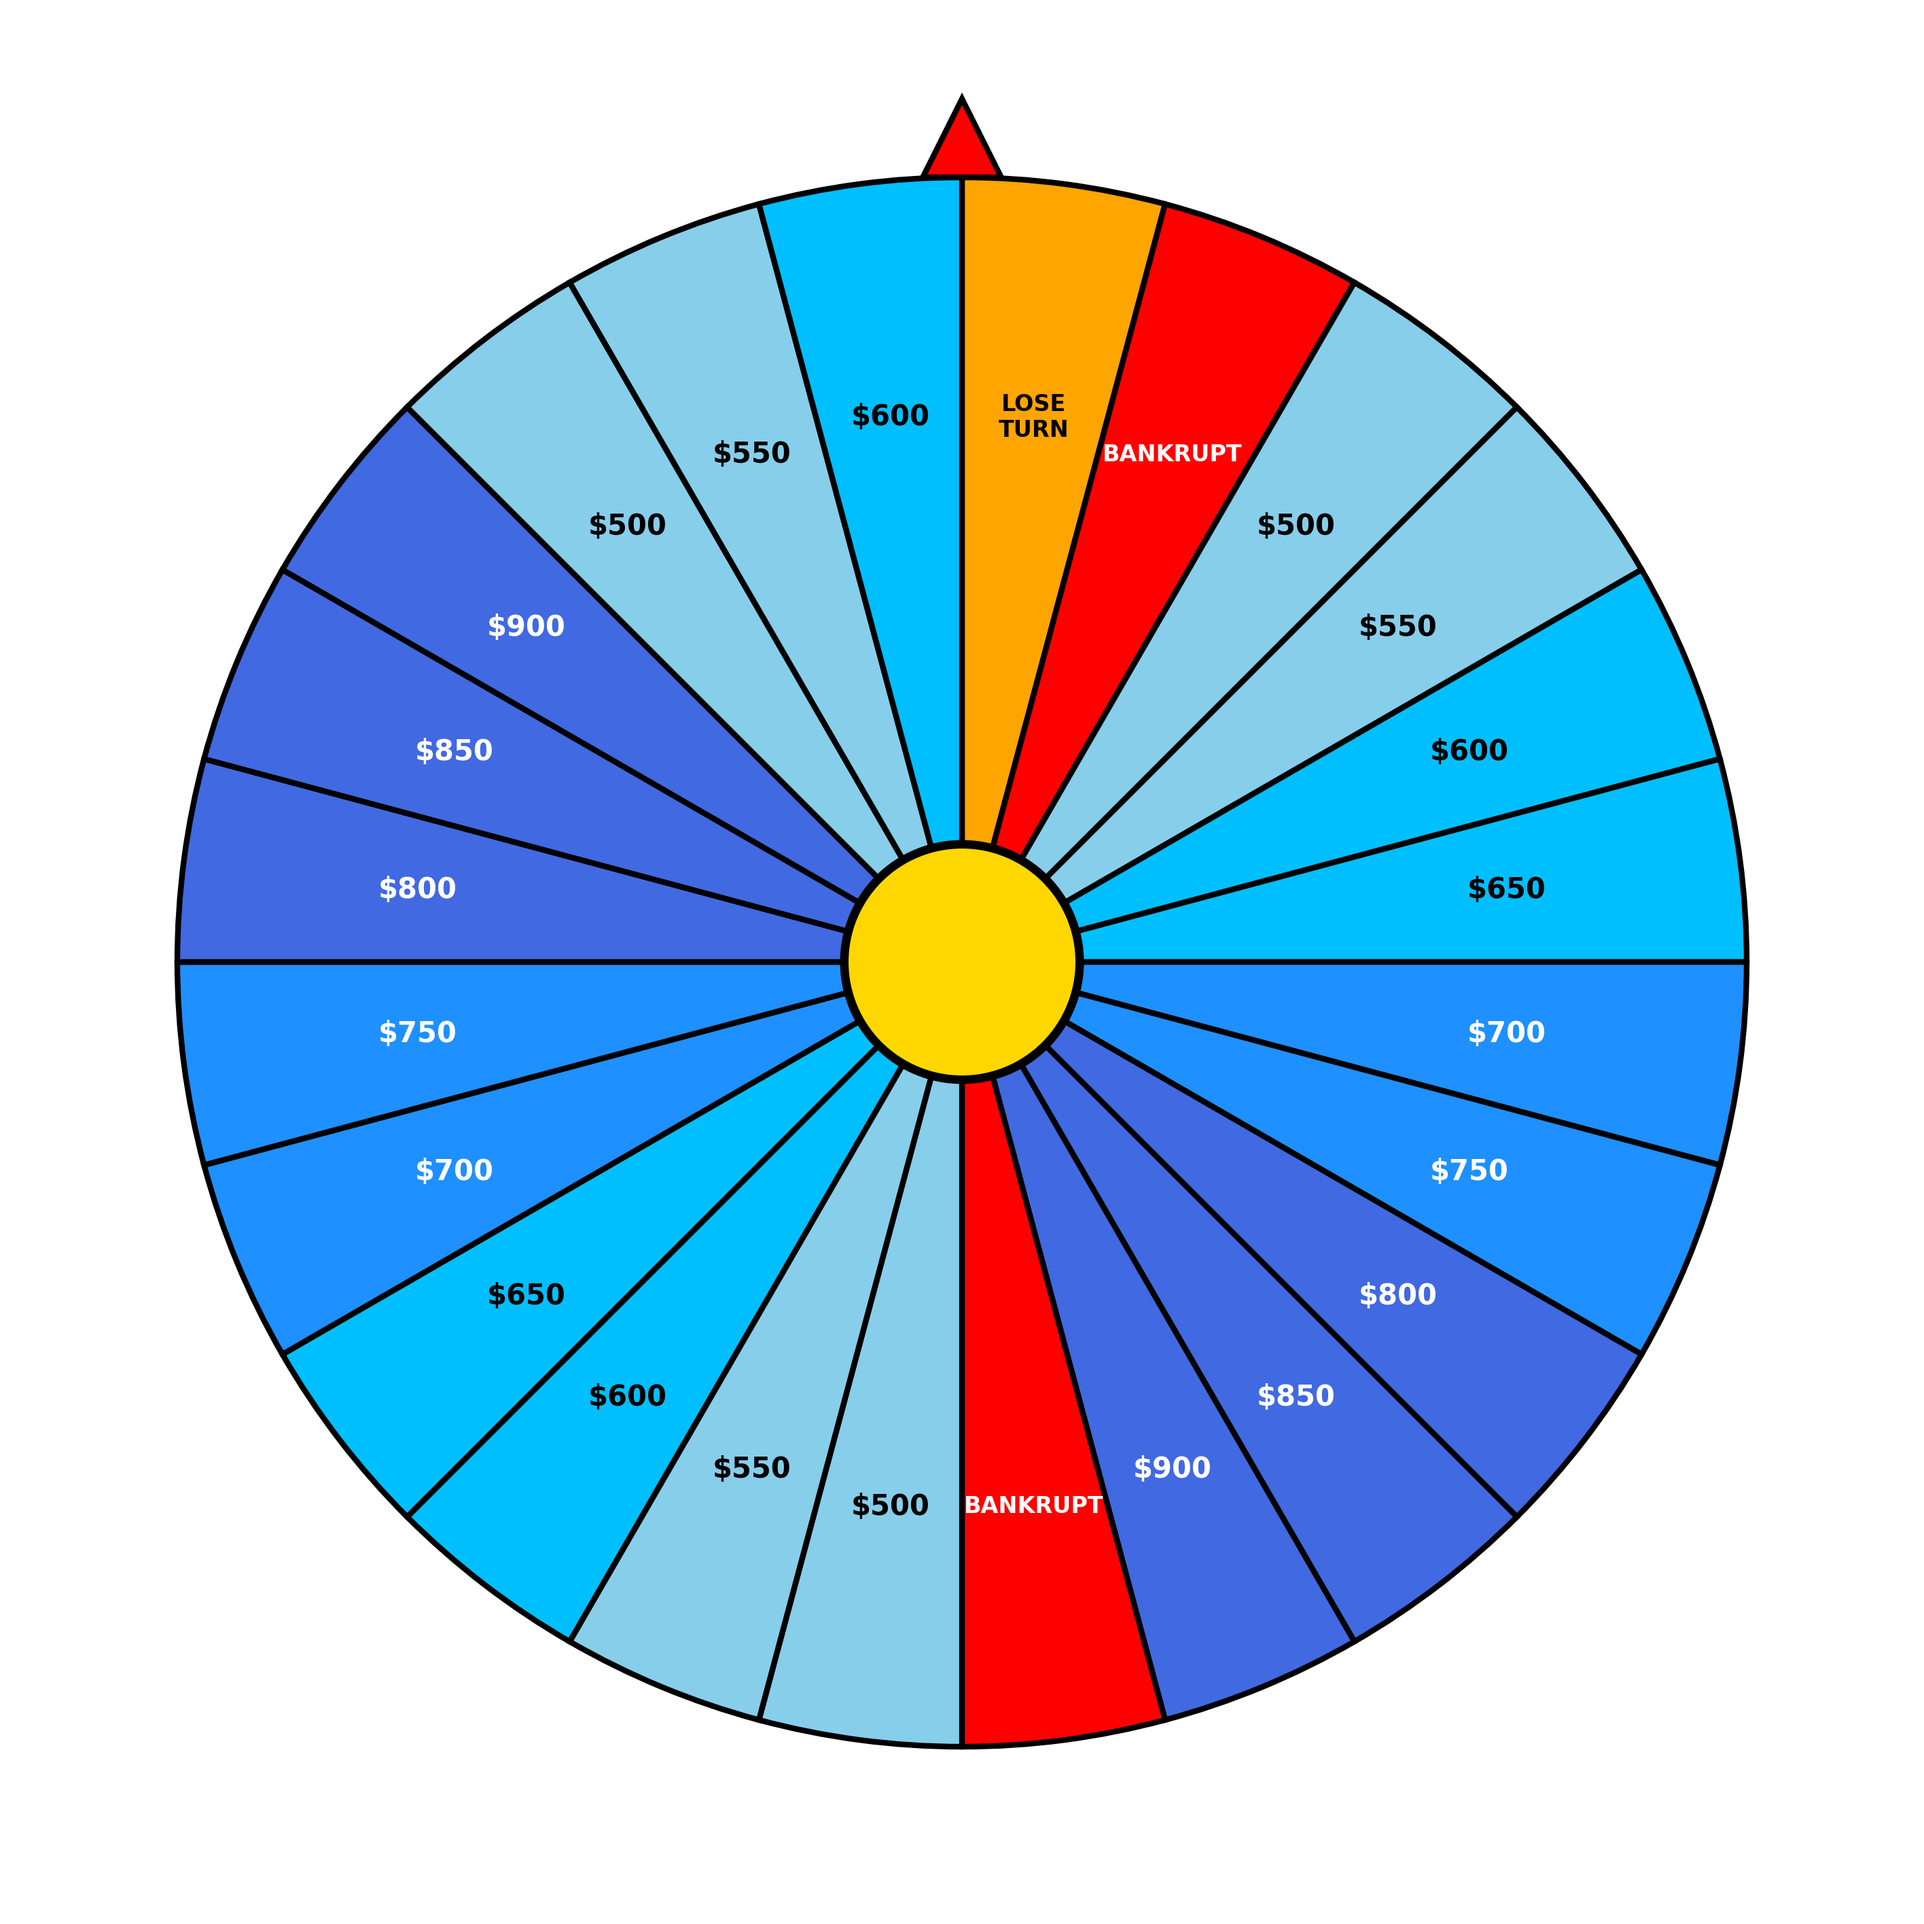
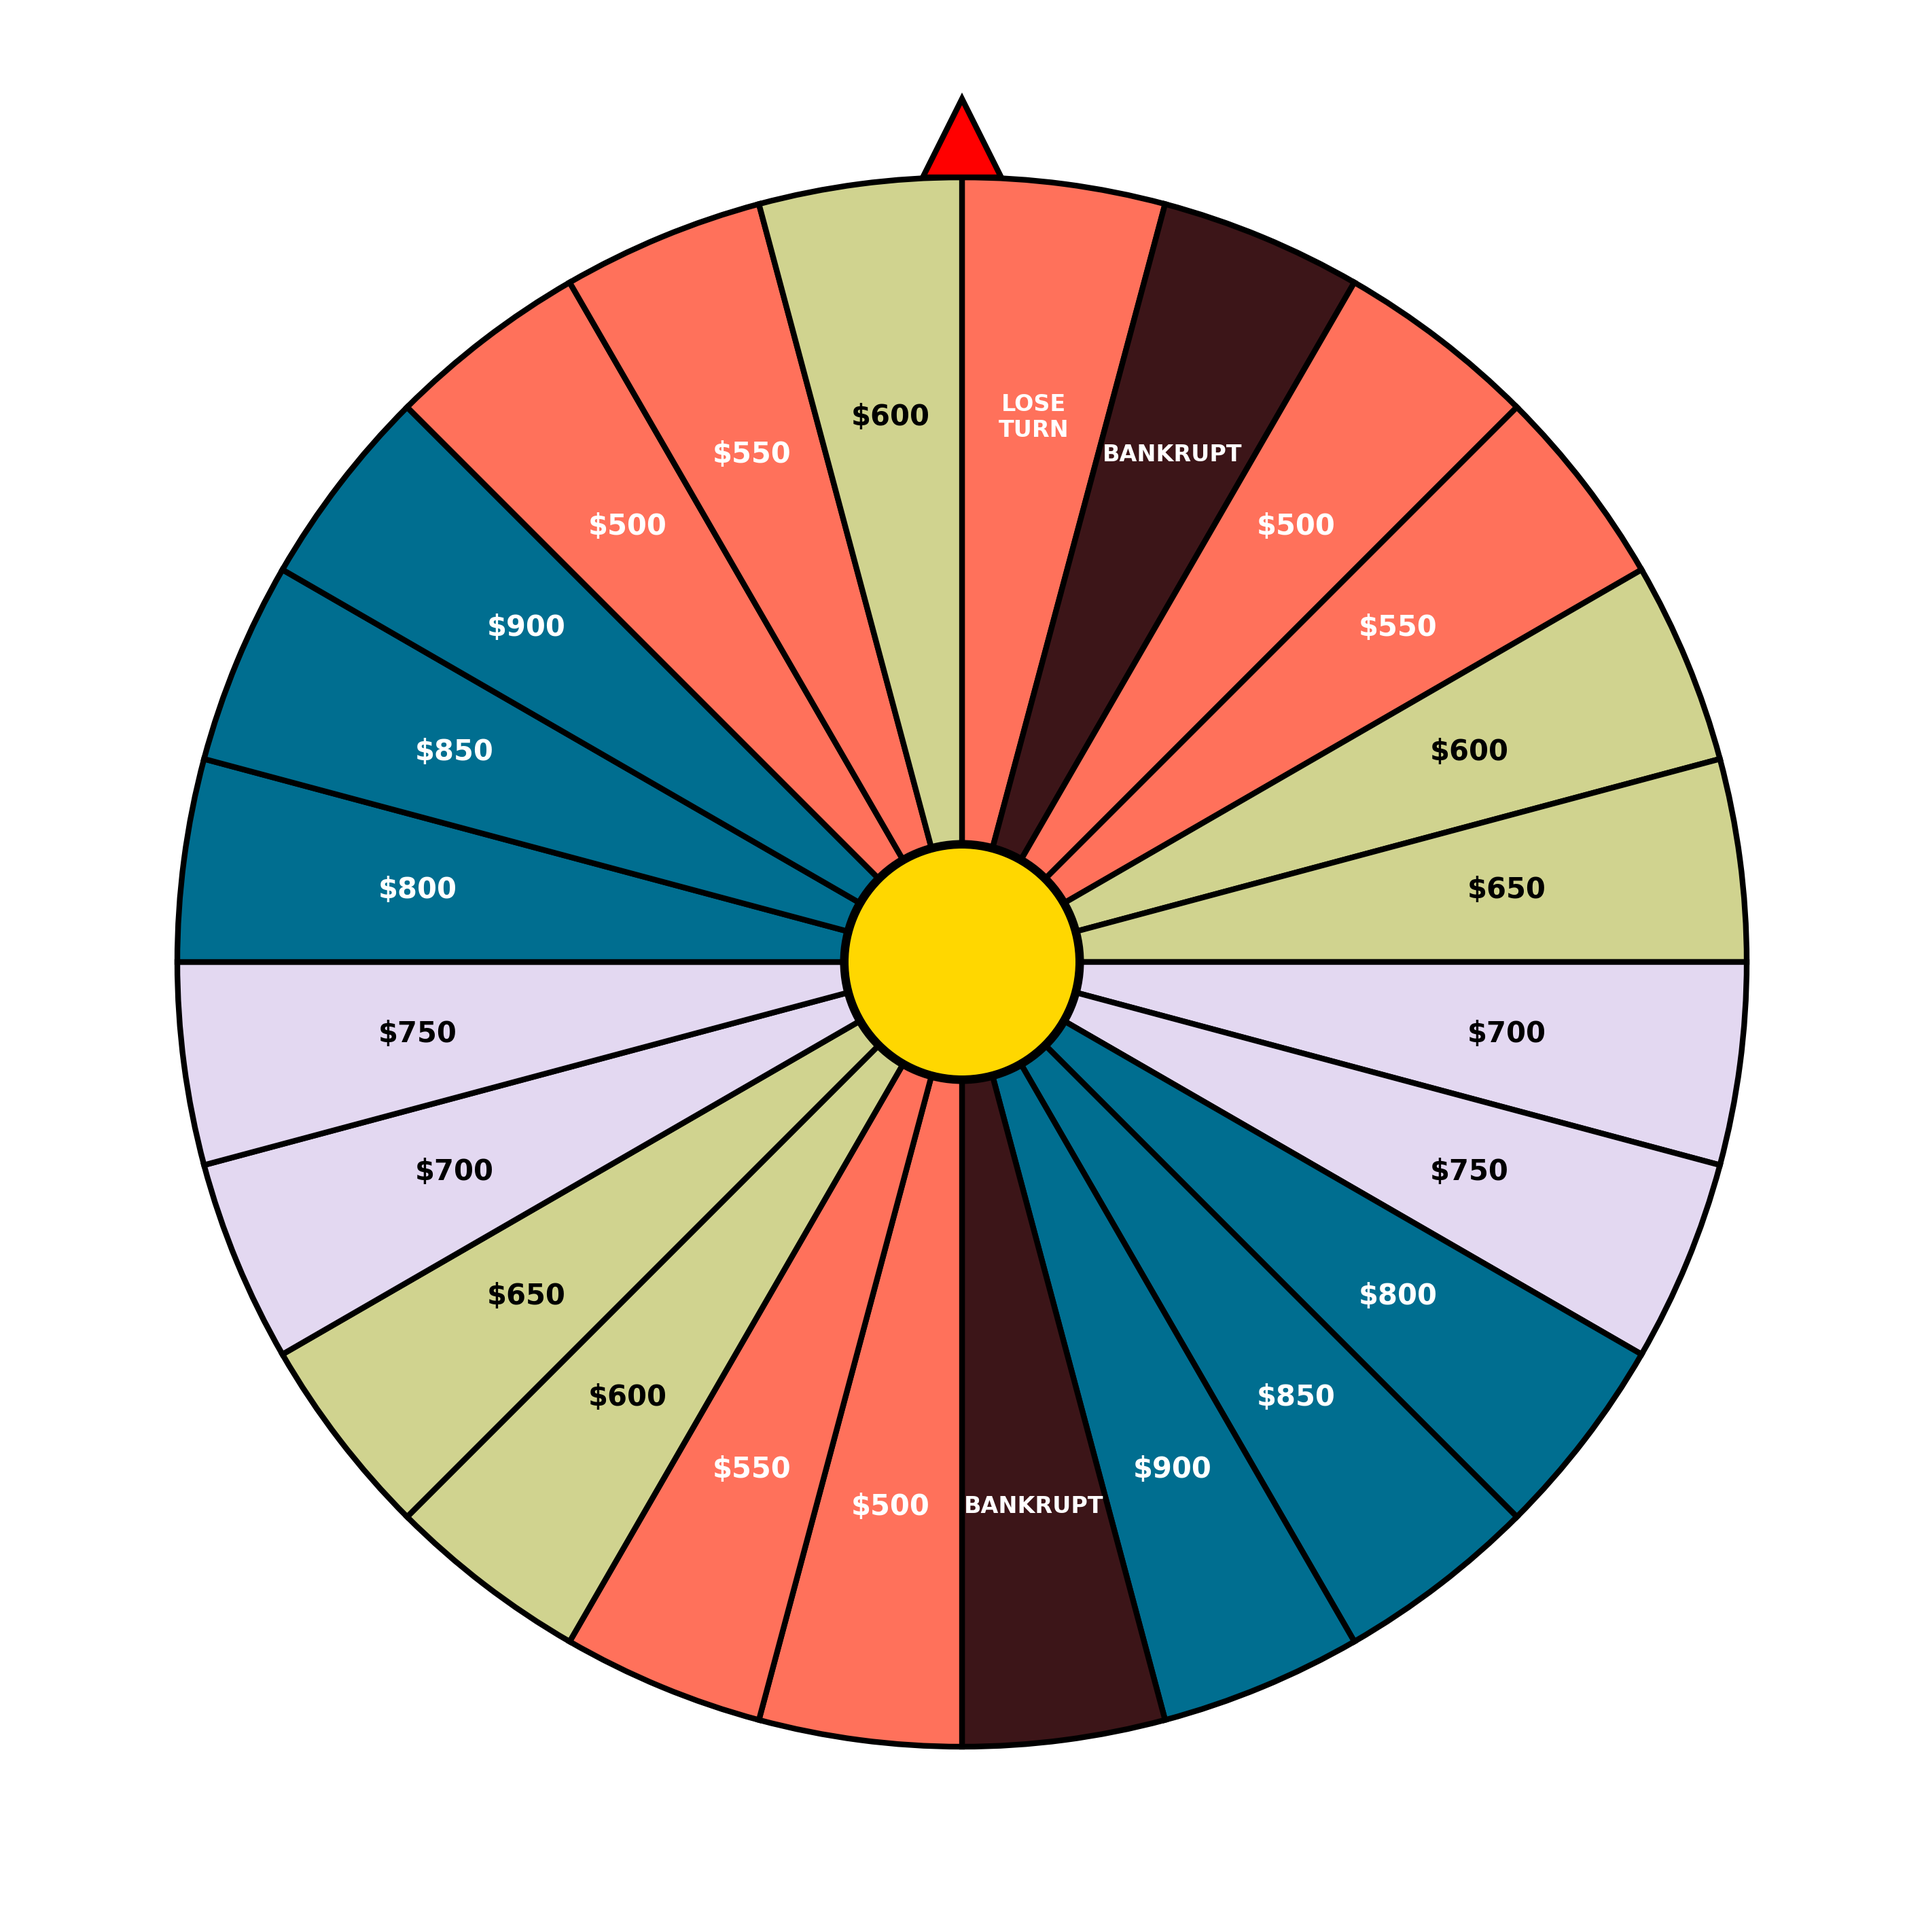
Update color palette throughout the game
- Applied new color palette: #E3D8F1, #FF715B, #D0D38F, #006E90, #3C1518
- Updated wheel image with new colors and proper contrast
- Updated all button styles to use new palette
- Updated background gradients and container styles
- Maintained good contrast for readability
- Ensured wheel values match exactly what's displayed

diff --git a/styles-new.css b/styles-new.css
@@ -7,8 +7,7 @@
 
 body {
     font-family: 'Arial', sans-serif;
-    background: url('images/background.jpg') center center fixed;
-    background-size: cover;
+    background: linear-gradient(135deg, #3C1518 0%, #006E90 50%, #E3D8F1 100%);
     min-height: 100vh;
     color: #fff;
     overflow-x: hidden;
@@ -22,7 +21,7 @@ body::before {
     left: 0;
     width: 100%;
     height: 100%;
-    background: rgba(0, 0, 0, 0.3);
+    background: linear-gradient(135deg, rgba(60, 21, 24, 0.1) 0%, rgba(0, 110, 144, 0.1) 50%, rgba(227, 216, 241, 0.1) 100%);
     z-index: -1;
     pointer-events: none;
 }
@@ -41,8 +40,8 @@ body::before {
 header {
     text-align: center;
     padding: 20px;
-    background: rgba(0, 0, 0, 0.8);
-    border-bottom: 3px solid #ffd700;
+    background: rgba(60, 21, 24, 0.9);
+    border-bottom: 3px solid #D0D38F;
 }
 
 header h1 {
@@ -66,15 +65,15 @@ header h1 {
     max-width: 800px;
     margin: 50px auto;
     padding: 40px;
-    background: rgba(0, 0, 0, 0.8);
+    background: rgba(0, 110, 144, 0.2);
     border-radius: 15px;
-    border: 3px solid #ffd700;
+    border: 3px solid #E3D8F1;
     text-align: center;
 }
 
 .setup-container h2 {
     font-size: 2.5rem;
-    color: #ffd700;
+    color: #D0D38F;
     margin-bottom: 30px;
     text-shadow: 2px 2px 4px rgba(0, 0, 0, 0.8);
 }
@@ -95,9 +94,9 @@ header h1 {
 }
 
 .round-btn {
-    background: linear-gradient(145deg, #2c3e50, #34495e);
-    color: #ecf0f1;
-    border: 2px solid #3498db;
+    background: linear-gradient(145deg, #006E90, #3C1518);
+    color: #ffffff;
+    border: 2px solid #E3D8F1;
     padding: 12px 24px;
     border-radius: 8px;
     font-size: 16px;
@@ -108,16 +107,17 @@ header h1 {
 }
 
 .round-btn:hover {
-    background: linear-gradient(145deg, #34495e, #2c3e50);
-    border-color: #5dade2;
+    background: linear-gradient(145deg, #3C1518, #006E90);
+    border-color: #D0D38F;
     transform: translateY(-2px);
-    box-shadow: 0 4px 8px rgba(52, 152, 219, 0.3);
+    box-shadow: 0 4px 8px rgba(227, 216, 241, 0.3);
 }
 
 .round-btn.active {
-    background: linear-gradient(145deg, #3498db, #2980b9);
-    border-color: #ecf0f1;
-    box-shadow: 0 4px 12px rgba(52, 152, 219, 0.5);
+    background: linear-gradient(145deg, #E3D8F1, #D0D38F);
+    color: #3C1518;
+    border-color: #006E90;
+    box-shadow: 0 4px 12px rgba(208, 211, 143, 0.5);
 }
 
 .player-selection {
@@ -150,8 +150,8 @@ header h1 {
 }
 
 .counter-btn {
-    background: #ffd700;
-    color: #000;
+    background: #D0D38F;
+    color: #3C1518;
     border: none;
     width: 40px;
     height: 40px;
@@ -163,7 +163,7 @@ header h1 {
 }
 
 .counter-btn:hover {
-    background: #ffed4e;
+    background: #E3D8F1;
     transform: scale(1.1);
 }
 
@@ -209,8 +209,8 @@ header h1 {
 }
 
 .continue-btn, .start-btn {
-    background: linear-gradient(45deg, #ffd700, #ffed4e);
-    color: #000;
+    background: linear-gradient(45deg, #D0D38F, #E3D8F1);
+    color: #3C1518;
     border: none;
     padding: 15px 40px;
     font-size: 1.5rem;
@@ -223,7 +223,7 @@ header h1 {
 
 .continue-btn:hover, .start-btn:hover {
     transform: scale(1.05);
-    box-shadow: 0 5px 15px rgba(255, 215, 0, 0.4);
+    box-shadow: 0 5px 15px rgba(208, 211, 143, 0.4);
 }
 
 /* Naming Screen Styles */
@@ -357,7 +357,7 @@ header h1 {
 }
 
 .spin-button {
-    background: linear-gradient(45deg, #ff6b6b, #ff8e8e);
+    background: linear-gradient(45deg, #FF715B, #006E90);
     color: white;
     border: none;
     padding: 15px 40px;
@@ -372,7 +372,7 @@ header h1 {
 
 .spin-button:hover {
     transform: scale(1.05);
-    box-shadow: 0 5px 15px rgba(255, 107, 107, 0.4);
+    box-shadow: 0 5px 15px rgba(255, 113, 91, 0.4);
 }
 
 .spin-button:disabled {
@@ -641,7 +641,7 @@ header h1 {
 }
 
 .guess-container button, .phrase-container button {
-    background: linear-gradient(45deg, #4CAF50, #66BB6A);
+    background: linear-gradient(45deg, #006E90, #E3D8F1);
     color: white;
     border: none;
     padding: 12px 25px;
@@ -655,7 +655,7 @@ header h1 {
 
 .guess-container button:hover, .phrase-container button:hover {
     transform: scale(1.05);
-    box-shadow: 0 5px 15px rgba(76, 175, 80, 0.4);
+    box-shadow: 0 5px 15px rgba(0, 110, 144, 0.4);
 }
 
 .guess-container button:disabled, .phrase-container button:disabled {
@@ -673,8 +673,8 @@ header h1 {
 }
 
 .action-buttons button {
-    background: linear-gradient(45deg, #2196F3, #42A5F5);
-    color: white;
+    background: linear-gradient(45deg, #D0D38F, #FF715B);
+    color: #3C1518;
     border: none;
     padding: 12px 25px;
     font-size: 1.1rem;
@@ -686,7 +686,7 @@ header h1 {
 
 .action-buttons button:hover {
     transform: scale(1.05);
-    box-shadow: 0 5px 15px rgba(33, 150, 243, 0.4);
+    box-shadow: 0 5px 15px rgba(208, 211, 143, 0.4);
 }
 
 .action-buttons button:disabled {

diff --git a/create_accurate_wheel.py b/create_accurate_wheel.py
@@ -22,21 +22,21 @@ def create_wheel():
     ax.set_aspect('equal')
     ax.axis('off')
     
-    # Colors for different value types
+    # Colors using the new palette: #E3D8F1, #FF715B, #D0D38F, #006E90, #3C1518
     colors = []
     for value in wheel_values:
         if value == -1:  # BANKRUPT
-            colors.append('#FF0000')  # Red
+            colors.append('#3C1518')  # Dark maroon
         elif value == 0:  # LOSE TURN
-            colors.append('#FFA500')  # Orange
+            colors.append('#FF715B')  # Coral
         elif value >= 800:  # High values
-            colors.append('#4169E1')  # Royal Blue
+            colors.append('#006E90')  # Dark teal
         elif value >= 700:  # Medium-high values
-            colors.append('#1E90FF')  # Dodger Blue
+            colors.append('#E3D8F1')  # Light purple
         elif value >= 600:  # Medium values
-            colors.append('#00BFFF')  # Deep Sky Blue
-        else:  # Lower values
-            colors.append('#87CEEB')  # Sky Blue
+            colors.append('#D0D38F')  # Light yellow-green
+        else:  # Lower values (500-550)
+            colors.append('#FF715B')  # Coral
     
     # Calculate angles for each section
     n_sections = len(wheel_values)
@@ -59,22 +59,30 @@ def create_wheel():
         text_x = text_radius * math.cos(mid_angle)
         text_y = text_radius * math.sin(mid_angle)
         
-        # Format text
+        # Format text with appropriate contrast colors
         if value == -1:
             text = "BANKRUPT"
             fontsize = 8
             fontweight = 'bold'
-            color_text = 'white'
+            color_text = 'white'  # White on dark maroon
         elif value == 0:
             text = "LOSE\nTURN"
             fontsize = 8
             fontweight = 'bold'
-            color_text = 'black'
+            color_text = 'white'  # White on coral
         else:
             text = f"${value}"
             fontsize = 10
             fontweight = 'bold'
-            color_text = 'white' if value >= 700 else 'black'
+            # Choose text color based on background for good contrast
+            if value >= 800:  # Dark teal background
+                color_text = 'white'
+            elif value >= 700:  # Light purple background
+                color_text = 'black'
+            elif value >= 600:  # Light yellow-green background
+                color_text = 'black'
+            else:  # Coral background
+                color_text = 'white'
         
         # Add text
         ax.text(text_x, text_y, text, ha='center', va='center', 
